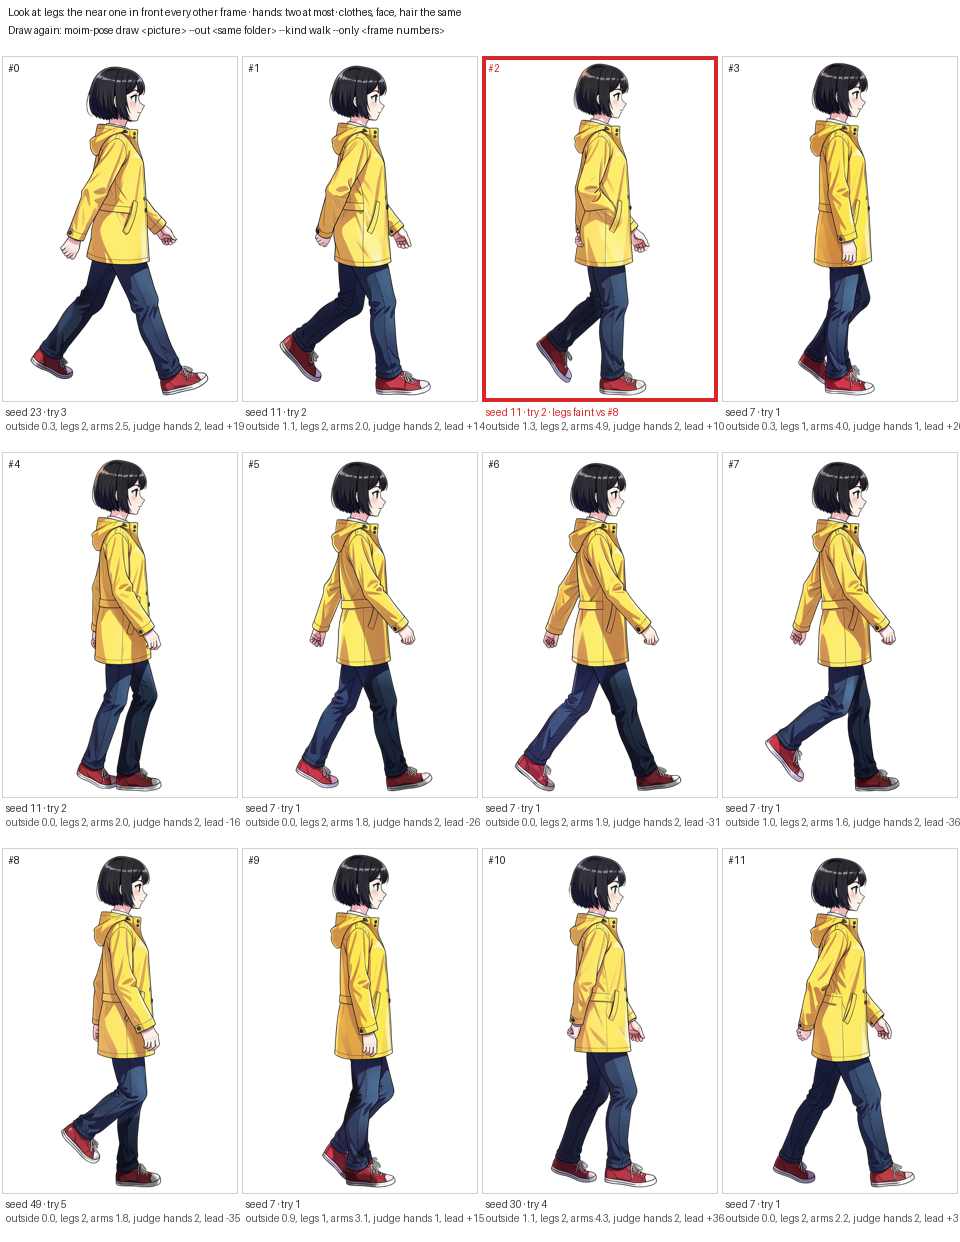
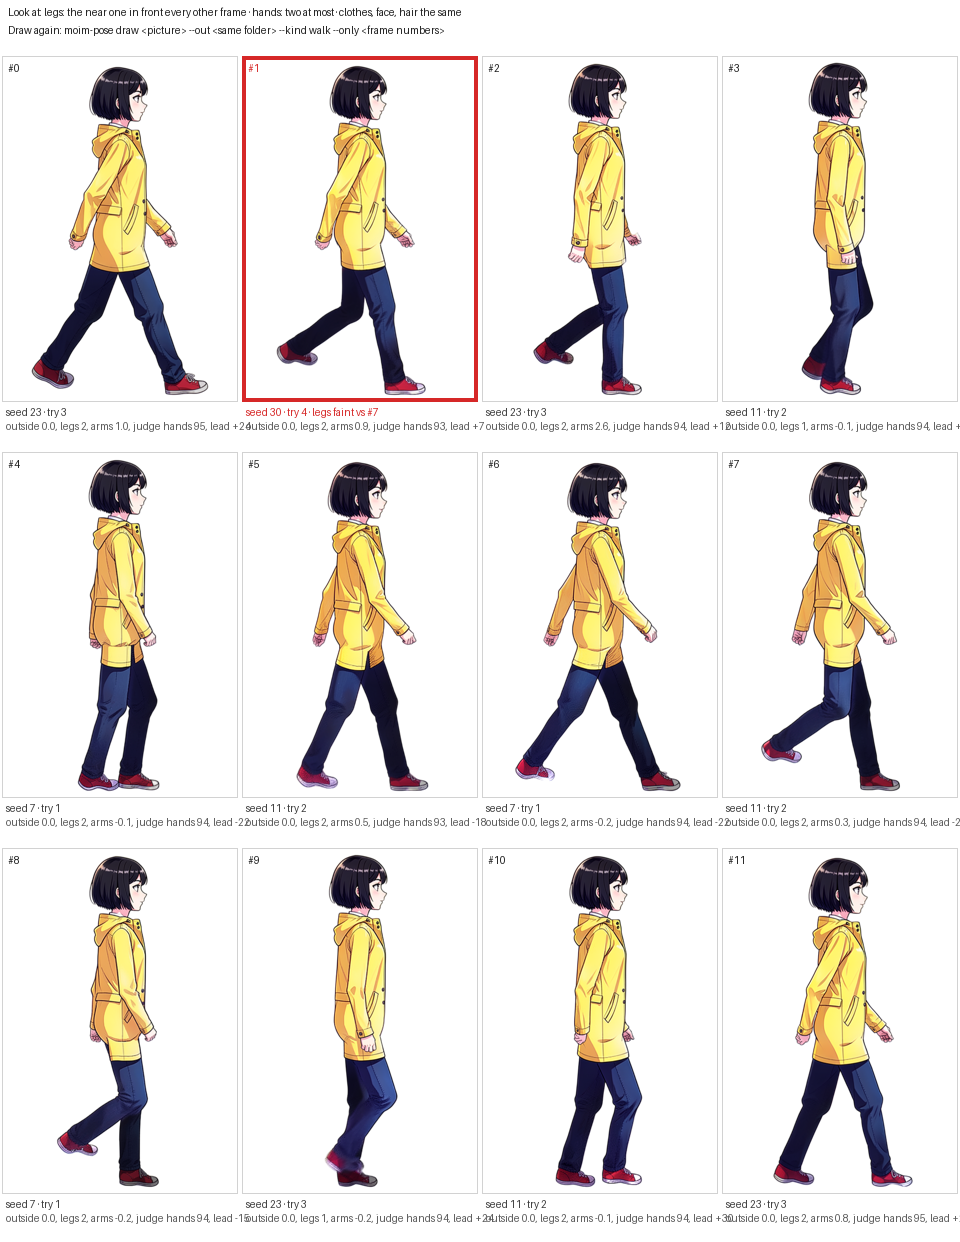
0.3.0: the cycle drawn as a video by default (twice, the second from its own frame 0 made sharp), hand boxes, the mannequin's seat and nose; README, examples and workflows (the video and sharpen graphs too)

diff --git a/marearts_moim_pose/cli.py b/marearts_moim_pose/cli.py
@@ -83,14 +83,20 @@ def cmd_finish(args):
 
 
 def cmd_workflows(args):
-    from .comfy import MaComfy, ma_cutout_graph, ma_klein_depth_graph, ma_klein_text_graph, ma_prompt, ma_ui_workflow
+    from .comfy import (MaComfy, ma_cutout_graph, ma_klein_depth_graph, ma_klein_text_graph, ma_prompt,
+                        ma_sharpen_graph, ma_ui_workflow, ma_video_graph)
+    from .pipeline import ma_video_prompt
     info = MaComfy(args.server).object_info()
     out = Path(args.out)
     out.mkdir(parents=True, exist_ok=True)
     graphs = {"moim_pose_1_frame_klein_depth": ma_klein_depth_graph("depth.png", "person.png", ma_prompt()),
               "moim_pose_2_cutout_birefnet": ma_cutout_graph("frame.png"),
               "moim_pose_0_new_character_klein": ma_klein_text_graph("a young man with short black hair, a "
-                                                                         "yellow raincoat, dark jeans, red sneakers")}
+                                                                         "yellow raincoat, dark jeans, red sneakers"),
+              # the cycle as a video: 25 mannequins (two cycles of 12 and one), frame 0 as the first picture
+              "moim_pose_3_cycle_video_wan22": ma_video_graph([f"depth_{k % 12:02d}.png" for k in range(25)],
+                                                              "frame_0.png", ma_video_prompt("", "walk")),
+              "moim_pose_4_sharpen_klein": ma_sharpen_graph("depth.png", "frame_0.png", "video_frame.png", ma_prompt())}
     for name, g in graphs.items():
         (out / f"{name}.json").write_text(json.dumps(ma_ui_workflow(g, info), indent=1) + "\n", encoding="utf-8")
         (out / f"{name}_api.json").write_text(json.dumps(g, indent=1) + "\n", encoding="utf-8")

diff --git a/marearts_moim_pose/__init__.py b/marearts_moim_pose/__init__.py
@@ -1,6 +1,6 @@
 """marearts-moim-pose (was marearts-spritestride): walk-cycle sprites of one person from one picture, with ComfyUI and
 FLUX.2 [klein]."""
-__version__ = "0.2.0"
+__version__ = "0.3.0"
 
 from .gait import PRESETS, MaGait, ma_frame_phases, ma_gait, ma_stride_px, ma_walk_points  # noqa: E402,F401
 from .mannequin import ma_depth, ma_skeleton  # noqa: E402,F401

diff --git a/README.md b/README.md
@@ -8,7 +8,8 @@ Walk-cycle sprites of one person from one picture. Give it a side view of a char
 character walking (or carrying a box) in 12 frames that loop, checks every frame, locks height and head size
 across the cycle, and writes a sprite sheet, GIFs and a small JSON a game can read.
 
-It runs on an 8 GB GPU through ComfyUI with FLUX.2 [klein] 4B, and every model it uses is Apache-2.0 or MIT.
+It runs on an 8 GB GPU through ComfyUI: Wan 2.2 Fun Control 14B draws the cycle as one short video over depth
+mannequins, FLUX.2 [klein] 4B makes each frame sharp. Every model it uses is Apache-2.0 or MIT.
 
 Formerly **marearts-spritestride** (renamed in 0.2.0): the `spritestride` command and `import marearts_spritestride`
 still work.
@@ -19,9 +20,11 @@ still work.
 
 | Problem | Why | What moim-pose does |
 |---|---|---|
-| The character changes from frame to frame (sleeves, hem, colours) | Each frame is drawn on its own | An **edit** model: the character's own picture goes in as a reference latent, and the words name each piece of clothing |
+| The character changes from frame to frame (sleeves, hem, pockets, colours) | Each frame is drawn on its own, and each reads the clothes its own way | The cycle is drawn as **one video** over the mannequins, so each frame follows the one before. It is drawn **twice**: the second time from the video's own first frame made sharp (from a frame drawn alone the video put a round pouch on an older man's hip and every frame read it differently). Every frame is then made sharp from that one first frame, not from the standing picture |
 | It walks "on the same foot" | In profile the two legs of a pose skeleton lie on one line, so the model cannot tell which is in front | A **depth mannequin** instead of a skeleton: far limbs dark, near limbs bright. Frames half a cycle apart must lead with **different legs** (the lighter leg in front in one, behind in the other); one drawn on the same foot is drawn again. In the finished frames the far leg is drawn darker, as sprite artists do |
-| A third hand or foot appears, or the arms stand still while the legs walk | The model guesses where the far arm is, and given the same words for every frame it draws one hand before the body and one behind in all of them | Each frame is **told where its arms are** (hanging, near arm forward, near arm back). Measured checks against the mannequin (an arm swung past it fails), and an optional **vision-model judge**: it draws a box around each hand and counts the boxes (a list of hands skipped one hanging under the coat between the two); a hand too many in a video frame is drawn over in its box and the sleeve above it, the rest of the frame kept, says yes or no on a small crop **where the mannequin has the hand**, and counts the shoes on the feet. A failed frame is drawn again with another seed; one whose hand fails every seed (an arm half way back, where the model puts the hand back by the hip as in the picture) is drawn from its neighbour that passed |
+| A third hand or foot appears, a hand goes missing, or the arms stand still while the legs walk | The model guesses where the far arm is, and a video loses hands that move fast | Each frame is **told where its arms are** (hanging, near arm forward, near arm back). Measured checks against the mannequin (an arm swung past it fails), and an optional **vision-model judge**: it draws a **box around each hand** and counts the boxes (asked to list the hands, it skipped one hanging under the coat between the two), says yes or no on a small crop **where the mannequin has the hand**, and counts the shoes. A hand the video lost is drawn again in the mannequin's hand crop only; a hand too many is drawn over in its box and the sleeve above it; the rest of the frame stays as it was |
+| The coat ends at the hip at the back, the trousers' seat showing | In a mannequin with the thigh drawn over the body, the top of the thigh says "trousers" where a coat hangs | The mannequin's **seat covers the top of the near thigh** |
+| The face turns to the viewer and becomes someone else | A plain oval head says nothing of where the face looks | The mannequin's head has a **nose**, the face in profile; with the judge, each head is compared with the picture's (DINOv2) and a frame of another person is drawn again |
 | Height and head size wobble a few percent, and the feet slide | Drawn frames are never exactly the size of the pose | A **lock**: one master frame sets the head and the floor, the height follows the walk's own smooth wave, the legs are laid on the mannequin's legs |
 | The sprite skates across the ground, or the arms move in jumps | A leg turning at an even rate moves the planted foot unevenly, and frames picked to make up for it come at uneven times | The standing leg is solved so the planted foot goes back the **same distance every frame** at even time steps (a body walks at a steady speed), and each arm swings on one smooth wave; that distance is written to the JSON |
 
@@ -30,11 +33,9 @@ still work.
 
 ## Examples
 
-Both characters were made from words only (`moim-pose person`), then walked and given a box, 12 frames a cycle.
-Every frame passed the checks; the judge sent back third hands, hands left by the hip where the mannequin swung the
-arm back, and three frames with a third shoe, and those were drawn again with other seeds. Two frames of Otto's walk,
-his arm half way back, failed 12 seeds and passed drawn from the frame before or after. One pair of frames in
-each cycle still leads with a faint leg (marked in the review sheet).
+Both characters were made from words only (`moim-pose person`), then walked and given a box, 12 frames a cycle,
+each cycle drawn as a video. Every frame passed the checks; the judge found ten hands the video had lost and they
+were drawn again in their place. One frame in each cycle still leads with a faint leg (marked in the review sheet).
 
 | | made with |
 |---|---|
@@ -62,9 +63,17 @@ models:
 | `vae/flux2-vae.safetensors` | [Comfy-Org/Flux-2-Klein-4B](https://huggingface.co/Comfy-Org/Flux-2-Klein-4B) `split_files/` | Apache-2.0 |
 | `loras/flux2_klein_4b_refcontrol_depth.safetensors` | [thedeoxen/refcontrol-FLUX.2-klein-4B-reference-depth-lora](https://huggingface.co/thedeoxen/refcontrol-FLUX.2-klein-4B-reference-depth-lora) | Apache-2.0 |
 | `background_removal/birefnet.safetensors` | [Comfy-Org/BiRefNet](https://huggingface.co/Comfy-Org/BiRefNet) `background_removal/` | MIT |
+| `diffusion_models/wan2.2_fun_control_high_noise_14B_fp8_scaled.safetensors` | [Comfy-Org/Wan_2.2_ComfyUI_Repackaged](https://huggingface.co/Comfy-Org/Wan_2.2_ComfyUI_Repackaged) `split_files/` (from [alibaba-pai/Wan2.2-Fun-A14B-Control](https://huggingface.co/alibaba-pai/Wan2.2-Fun-A14B-Control)) | Apache-2.0 |
+| `diffusion_models/wan2.2_fun_control_low_noise_14B_fp8_scaled.safetensors` | the same | Apache-2.0 |
+| `loras/wan2.2_i2v_lightx2v_4steps_lora_v1_high_noise.safetensors`, `..._low_noise.safetensors` | the same (from [lightx2v/Wan2.2-Lightning](https://huggingface.co/lightx2v/Wan2.2-Lightning)) | Apache-2.0 |
+| `text_encoders/umt5_xxl_fp8_e4m3fn_scaled.safetensors`, `vae/wan_2.1_vae.safetensors` | the same | Apache-2.0 |
+
+The Wan files are about 30 GB; ComfyUI moves each 14B model between the card and system memory (our PC has 64 GB).
+`--engine frames` draws every frame on its own with the FLUX.2 files alone.
 
 Judge (optional): [Qwen/Qwen3.5-9B](https://huggingface.co/Qwen/Qwen3.5-9B) (Apache-2.0) through transformers, or any
-vision model behind an OpenAI-compatible server (llama.cpp, vLLM, Ollama).
+vision model behind an OpenAI-compatible server (llama.cpp, vLLM, Ollama). The head likeness uses
+[facebook/dinov2-small](https://huggingface.co/facebook/dinov2-small) (Apache-2.0) on the CPU.
 
 ## Use
 
@@ -96,6 +105,8 @@ moim-pose finish --out out/alice
 | Option | Meaning |
 |---|---|
 | `--gait` | `neat relaxed lively upright calm graceful heavy older energetic loose`; or `--step --knee --arm --lean --elbow` |
+| `--engine` | `video` (default: the cycle drawn as a video, then each frame made sharp) or `frames` (each frame drawn on its own) |
+| `--video-model` | `14b` (default, 4 steps), `14b-full` (20 steps, about six times as long), `5b` (fewer files, keeps clothes worse) |
 | `--frames` | frames a cycle (default 12; 8 makes a smaller sheet but the arms move in bigger jumps) |
 | `--fps` | GIF speed (default 12: one cycle a second at 12 frames) |
 | `--head` | head width / height of the character (0.19 for a big anime head with hair); the mannequin's head follows it |
@@ -118,22 +129,22 @@ Out, in `--out`:
 | `walk_report.json` | per frame: seed, every seed tried, measured checks, leg lead, judge answer, why it failed, seconds |
 | `raw/` | the drawn frames, masks and mannequins before the lock |
 
-On an RTX 2080 Super (8 GB) a try takes about half a minute to a minute; a cycle of 12 about 10 minutes with retries.
+On an RTX 2080 Super (8 GB) a cycle of 12 takes about 20 minutes: two videos of about two minutes each, then each
+frame made sharp (half a minute to a minute a try, with retries).
 
 ## It is not 100 % — plan on a look
 
-An image model draws every frame, and now and then it draws something wrong. Measured over 507 frames drawn on an
-8 GB card:
+An image model draws every frame, and now and then it draws something wrong. Measured on an 8 GB card:
 
 | | |
 |---|---|
-| Frames that passed the automatic checks at the first seed | 84 % — the rest at the 2nd to 4th seed. With the 0.2.0 checks (hands where the mannequin has them, shoes) the 48 example frames: 69 % at the first seed, most of the rest by the 5th; two frames of the older man's walk, his arm half way back, took 10 |
+| Frames that passed the automatic checks at the first seed | 0.3.0, the 48 example frames drawn as videos: 73 % (35), the rest by the 6th try; ten of them a hand drawn again in its place. Before, drawn one by one: 84 % over 507 frames with the 0.1 checks, 69 % with the 0.2.0 checks |
 | Walk cycles a person passed at the first look (one review of 12) | 4 of 12 — the others had a leg or a hand drawn oddly, a hat, beard or pocket that changed, a mouth open |
-| What the checks catch | a third arm or leg, an arm swung past the mannequin, a carried box that turns or bobs; with the judge a third hand, a hand missing where the mannequin has it, a third shoe; two steps on the same foot (by the legs' light, at the contact frames) |
+| What the checks catch | a third arm or leg, an arm swung past the mannequin, a carried box that turns or bobs; with the judge a third hand, a hand missing where the mannequin has it, a third shoe, a head that is another person; two steps on the same foot (by the legs' light, at the contact frames) |
 | What they do not catch yet | the same foot at mid-stance (legs crossed), legs of one flat colour with no light on them, an odd hand pose, small changes in clothes or face |
 
 <p align="center"><img src="docs/rin-walk-review.png" alt="The review sheet: every frame with its number, seed and what was measured" width="100%"></p>
-<p align="center"><sub>Rin's walk review sheet, 12 frames. Frame 2 is boxed: its lead leg reads faint against frame 8, half a cycle away. The seed line shows the frames the judge sent back (try 2 to 5).</sub></p>
+<p align="center"><sub>Rin's walk review sheet, 12 frames. Frame 1 is boxed: its lead leg reads faint against frame 7, half a cycle away. The seed line shows the frames the judge sent back (try 2 to 5).</sub></p>
 
 So the tool gives you **drafts that are checked**, not finished art. After every cycle open `walk_review.png`: every
 frame with its number, seed and what was measured, frames that failed the checks boxed in red, and what to look at
@@ -154,7 +165,8 @@ whole top of the head", "bare legs of smooth skin"), and the next draw keeps it.
 
 **Get the ready-made ComfyUI workflows on the [moim-pose page of MareArts Open Lab](https://www.marearts.com/blogs/open-lab/marearts-spritestride-walk-cycle-sprites-from-one-picture?utm_source=github&utm_medium=readme&utm_campaign=spritestride)** (free sign-up)
 — drag a `.json` into ComfyUI: a new character from words, one walk frame
-(image 1 = depth mannequin, image 2 = the character), and the cut-out. `moim-pose workflows --out workflows/`
+(image 1 = depth mannequin, image 2 = the character), the cut-out, the cycle as a video (25 mannequins and frame 0),
+and a video frame made sharp. `moim-pose workflows --out workflows/`
 also writes them from your own server's node list.
 
 ## In Python
